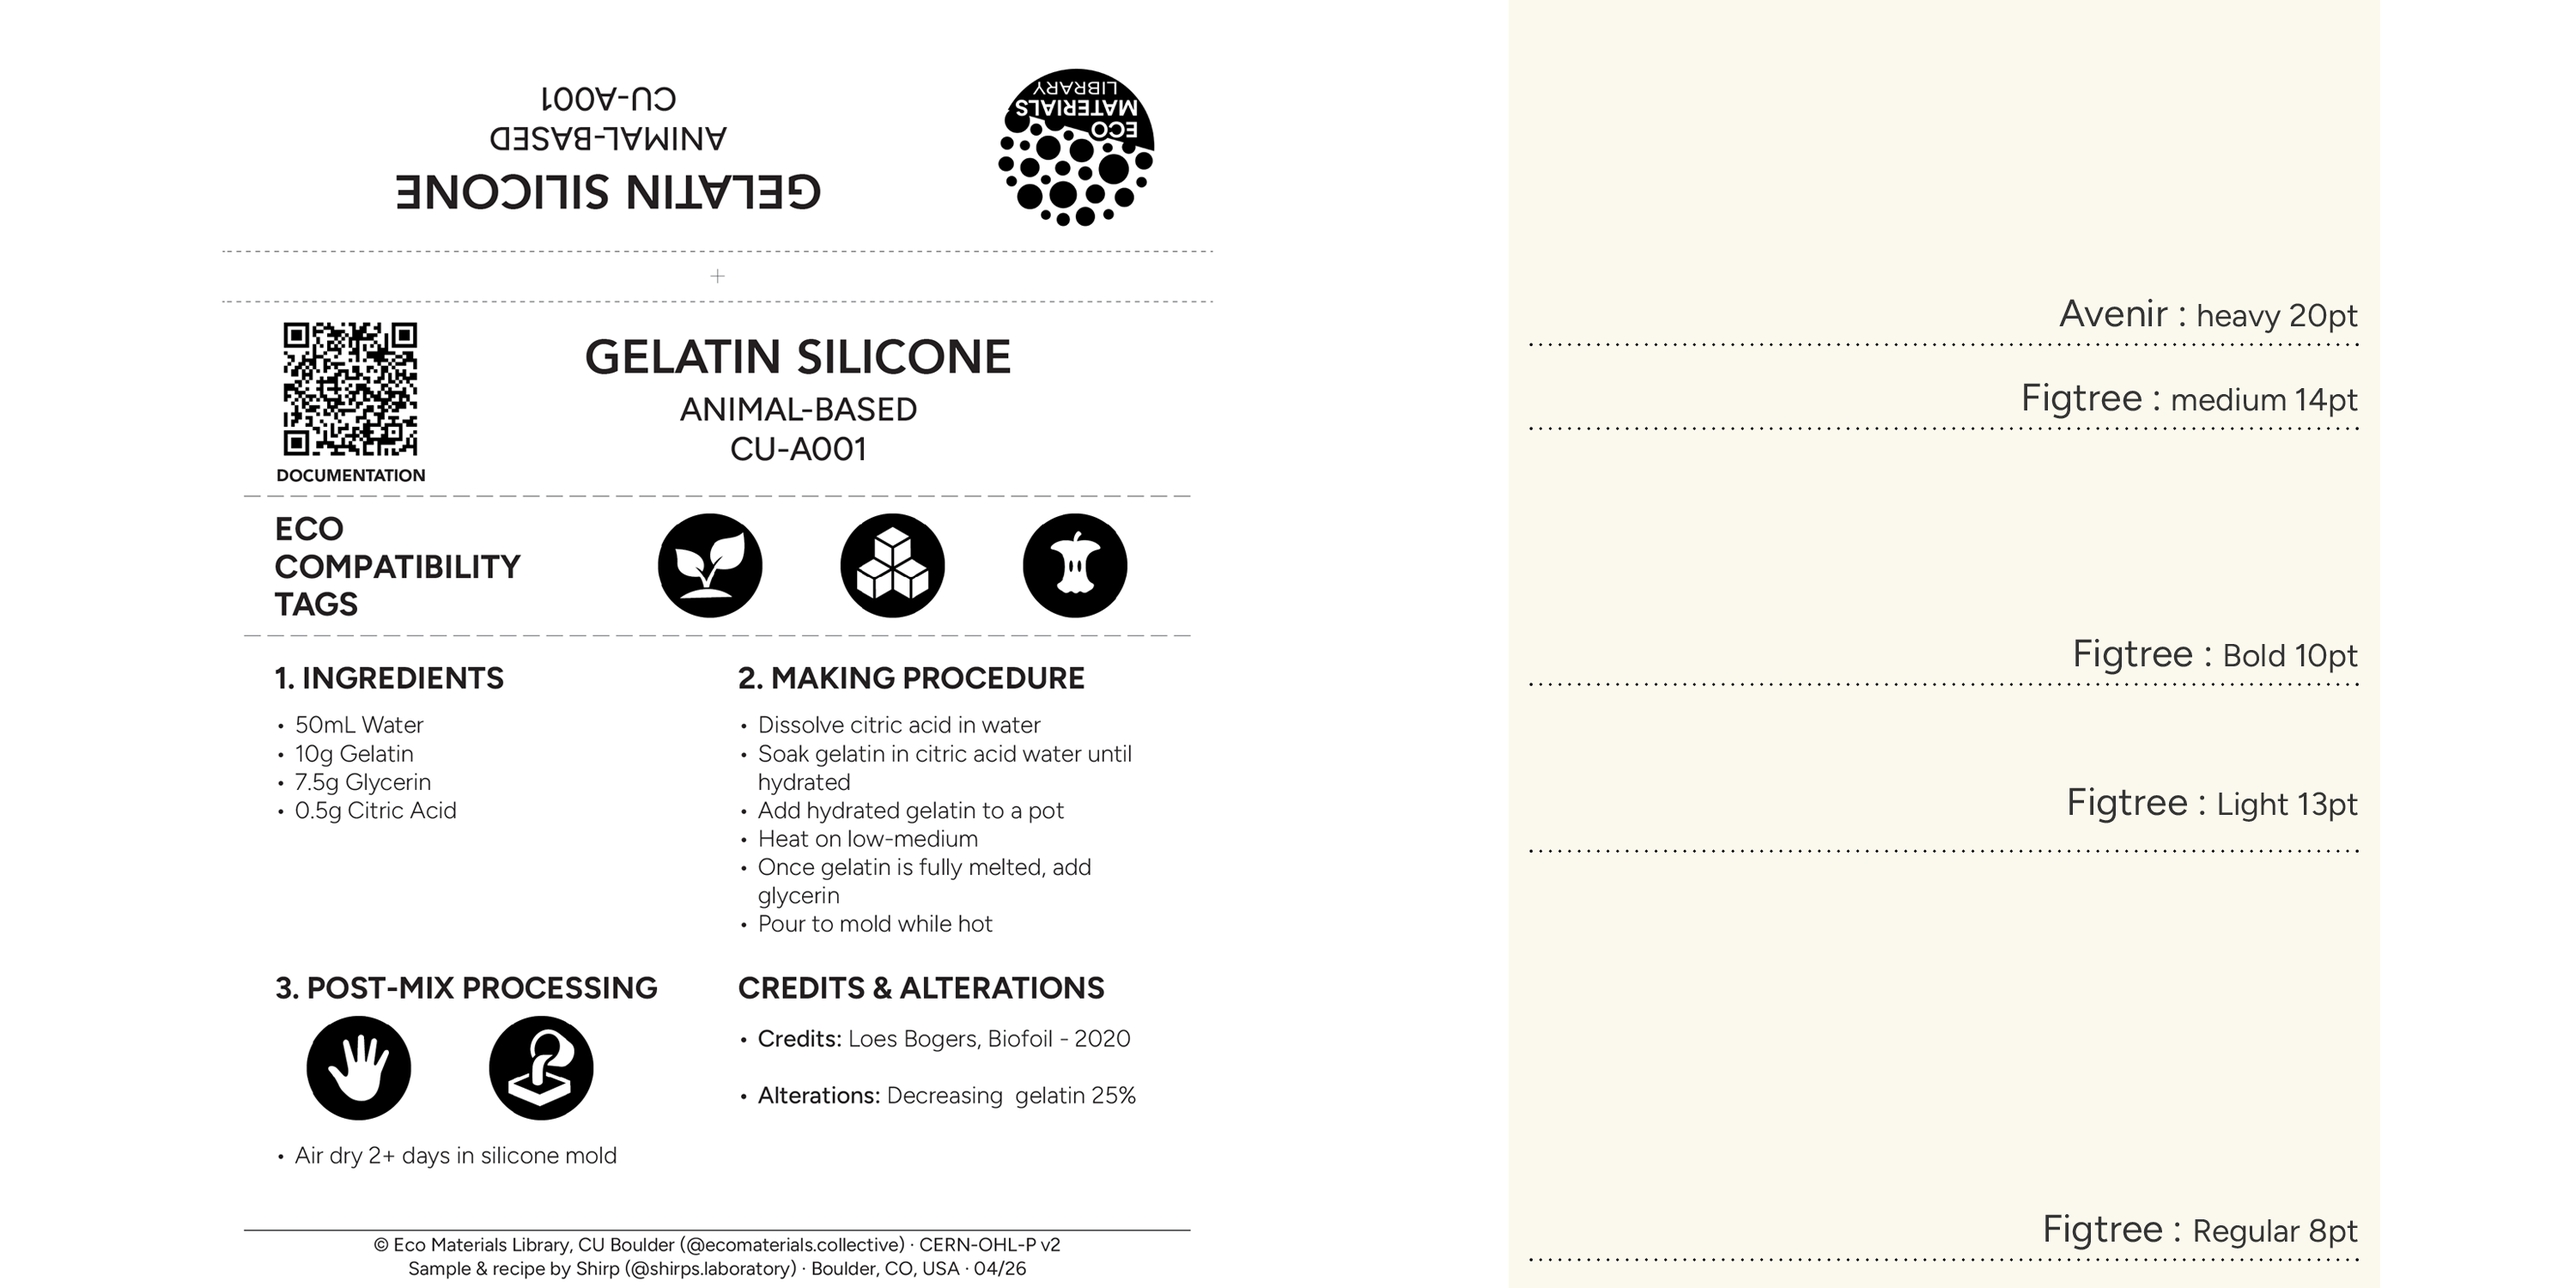
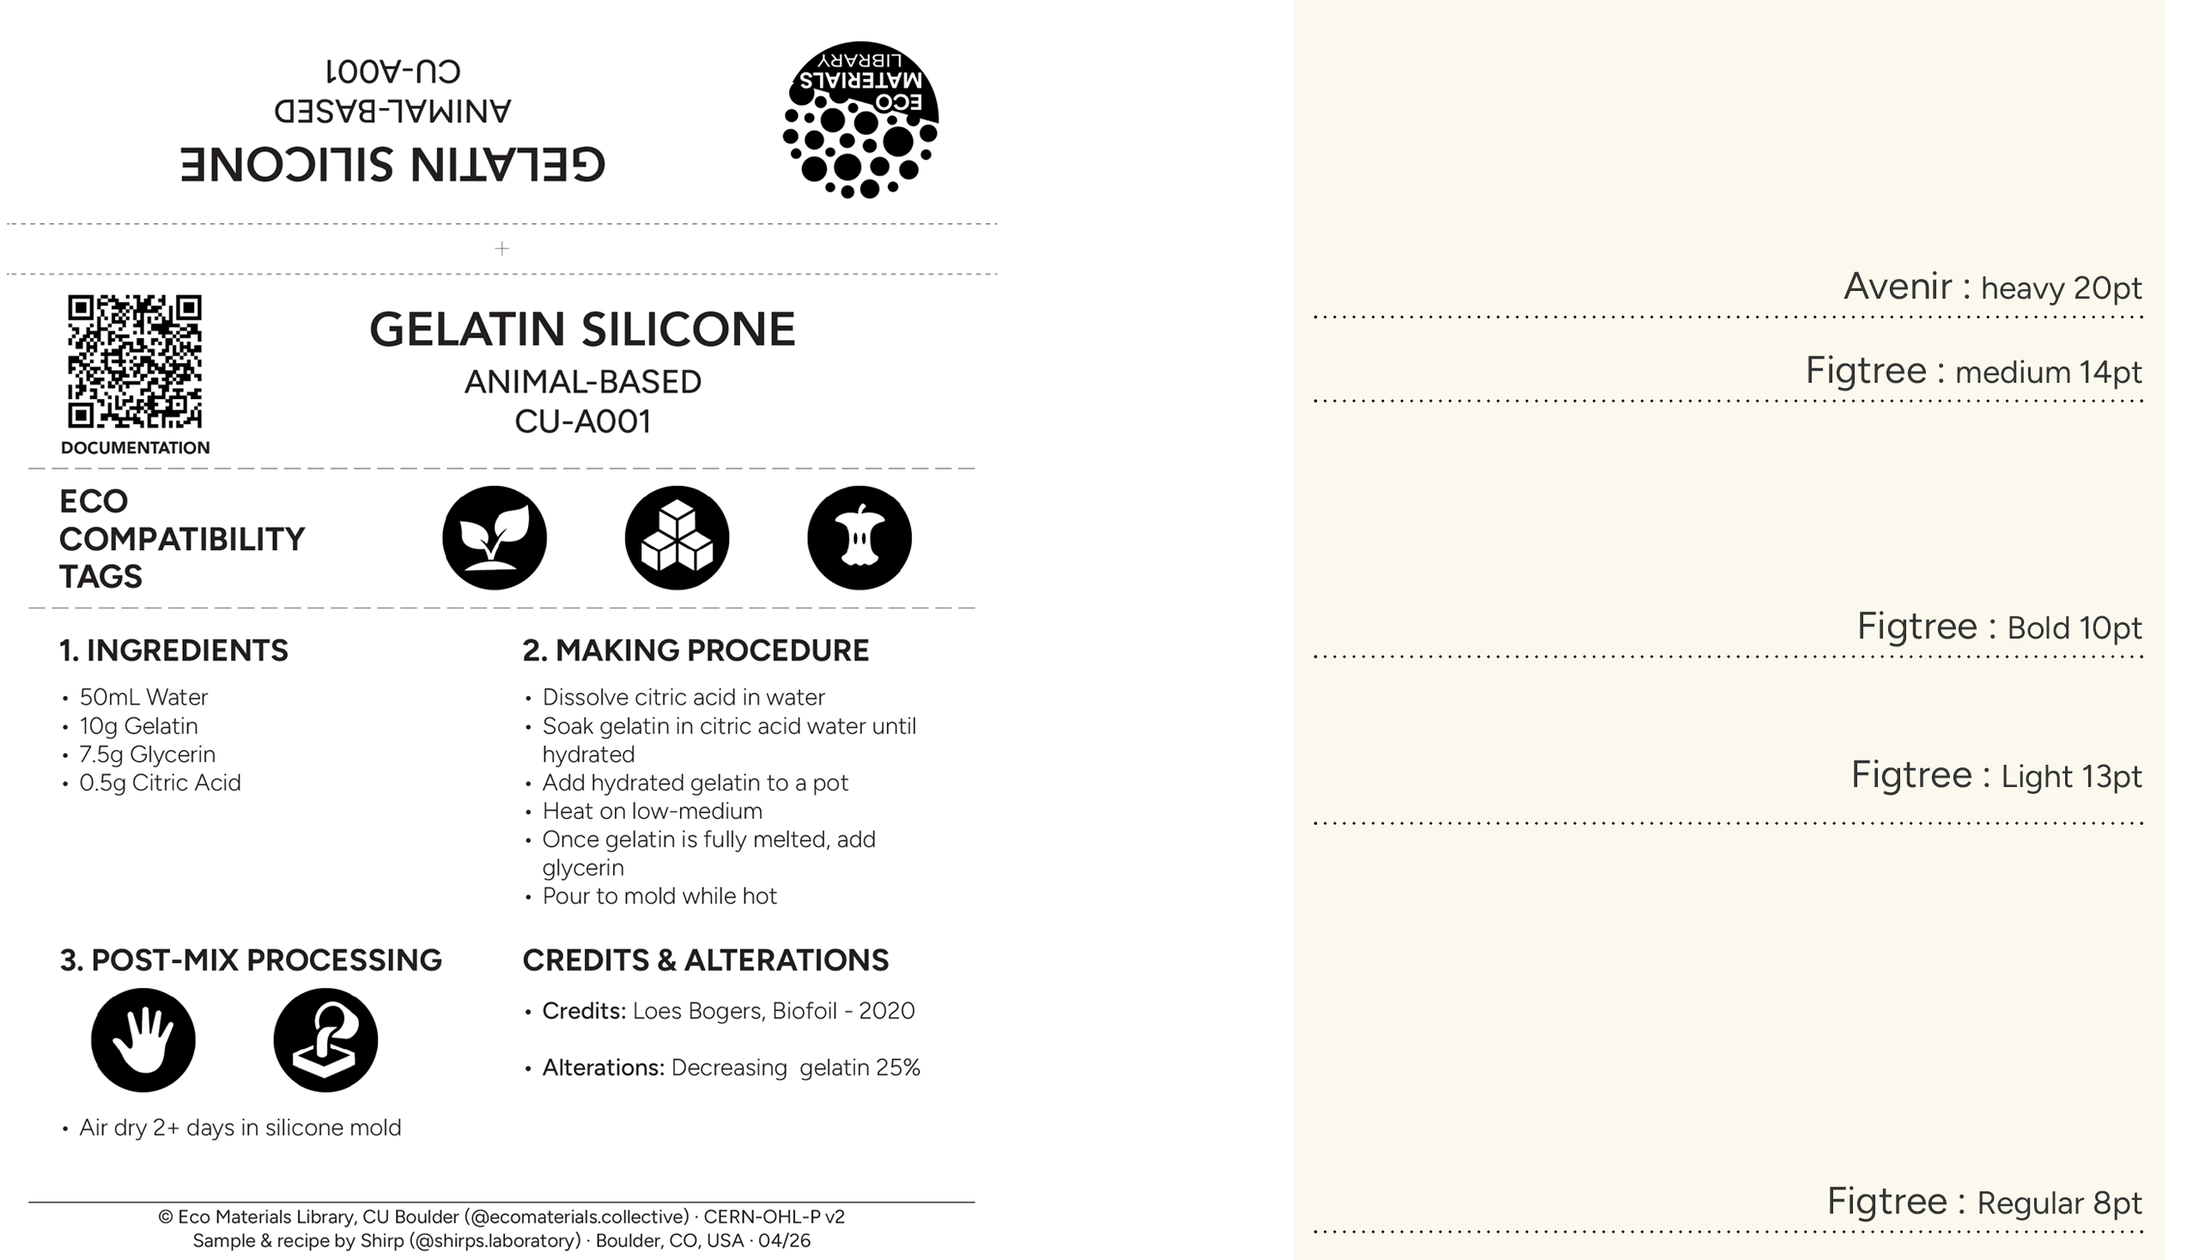
size changes

diff --git a/CSS/eco.css b/CSS/eco.css
@@ -79,7 +79,7 @@ p,
 li {
     font-family: "Figtree", sans-serif;
 
-    font-size: 10pt;
+    font-size: 11pt;
 
     font-weight: 400;
 
@@ -91,7 +91,7 @@ li {
 h2 {
     font-family: "Figtree", sans-serif;
 
-    font-size: 22pt;
+    font-size: 24pt;
 
     font-weight: 700;
 
@@ -108,7 +108,7 @@ h2 {
 h3 {
     font-family: "Figtree", sans-serif;
 
-    font-size: 16pt;
+    font-size: 18pt;
 
     font-weight: 700;
 
@@ -124,7 +124,7 @@ h3 {
 h4 {
     font-family: "Figtree", sans-serif;
 
-    font-size: 12pt;
+    font-size: 14pt;
 
     font-weight: 700;
 
@@ -241,7 +241,7 @@ article {
 
     width: 100%;
 
-    max-width: 500px;
+    max-width: 550px;
 
     height: auto;
 
@@ -303,7 +303,7 @@ article {
         minmax(0, 1fr)
         minmax(0, 1fr);
 
-    gap: clamp(30px, 5vw, 100px);
+    gap: clamp(40px, 5vw, 50px);
 
     align-items: start;
 
@@ -344,9 +344,9 @@ article {
 .color img {
     display: block;
     width: 100%;
-    max-width: 540px;
+    max-width: 600px;
     height: auto;
-    margin: 20px auto 30px auto;
+    margin: 20px 0px 30px 0px;
 }
 
 .labelmock {
@@ -1443,22 +1443,22 @@ article > .expo::before {
 
     p,
     li {
-        font-size: 10pt;
+        font-size: 11pt;
         line-height: 1.5;
     }
 
     h2 {
-        font-size: 18pt;
+        font-size: 22pt;
         line-height: 1.15;
     }
 
     h3 {
-        font-size: 14pt;
+        font-size: 19pt;
         line-height: 1.2;
     }
 
     h4 {
-        font-size: 11pt;
+        font-size: 14pt;
         line-height: 1.25;
     }
 
@@ -1796,7 +1796,7 @@ article > .expo::before {
     }
 
     .icon-row img {
-        width: 53px;
+        width: 72px;
         height: auto;
         margin-right: 2px;
         margin-bottom: 5px;
@@ -1837,7 +1837,7 @@ article > .expo::before {
 
     .displayIcons #iconsdisplay img,
     .webIcons #iconsdisplay img {
-        width: 44px;
+        width: 58px;
         height: auto;
     }
 

diff --git a/GraphicPages/Branding/eco.html b/GraphicPages/Branding/eco.html
@@ -255,11 +255,7 @@
 
 
         <div class="color">
-
-          <img
-            src="/images/Branding/Eco/colorswatch.png"
-            alt="Eco Materials Library color swatch">
-
+          <img src="/images/Branding/Eco/colorswatch2-01.png"alt="Eco Materials Library color swatch">
         </div>
 
 
